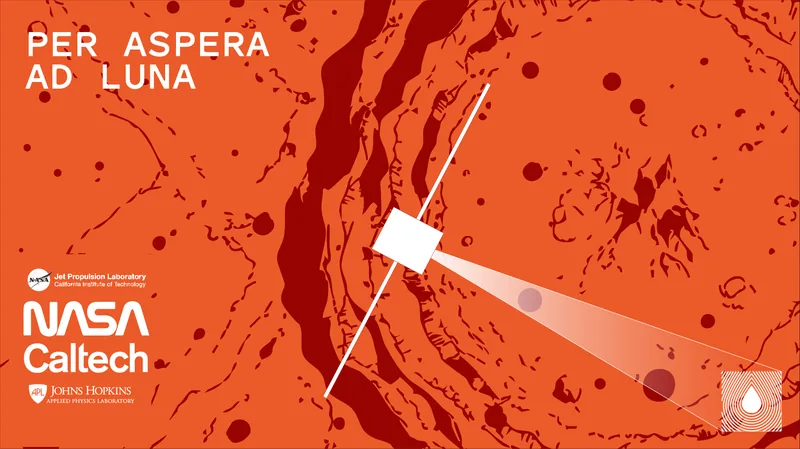
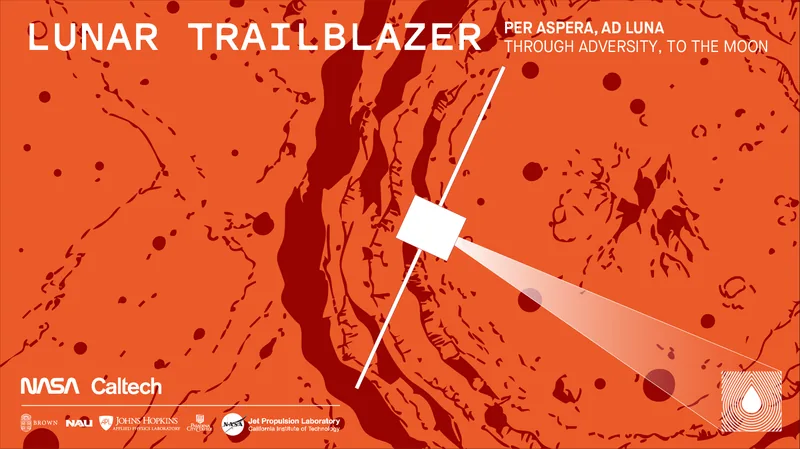
Lunar Trailblazer: replace typography, poster and cross-section with updated versions
Claude-Session: https://claude.ai/code/session_01VguxwzJd8C7LcNFhqFxFZQ

Changed region(s): [[0.0, 0.1559, 0.9062, 0.9978], [0.0312, 0.0312, 0.9688, 0.2183], [0.9062, 0.7795, 0.9688, 0.8107]]

diff --git a/projects/lunar-trailblazer-science/index.html b/projects/lunar-trailblazer-science/index.html
@@ -53,7 +53,7 @@
 
     <section class="cs-carousel" aria-label="Project images">
       <button class="cs-carousel__item" type="button" data-open="gallery" aria-label="Open gallery" style="background-color:#141417"><img src="/assets/images/ltb--typography.webp" alt="Lunar Trailblazer Science: Typography" class="fade-img" onload="this.classList.add('is-loaded')" onerror="this.classList.add('is-loaded')" loading="eager" draggable="false" style="view-transition-name: p-lunar-trailblazer-science"><span class="img-label" aria-hidden="true"><span class="img-label__title">Typography</span></span></button>
-      <button class="cs-carousel__item" type="button" data-open="gallery" aria-label="Open gallery" style="background-color:#141417"><img src="/assets/images/ltb--on-the-hunt.webp" alt="Lunar Trailblazer Science: Where the Water Hides" class="fade-img" onload="this.classList.add('is-loaded')" onerror="this.classList.add('is-loaded')" loading="eager" draggable="false"><span class="img-label" aria-hidden="true"><span class="img-label__title">Where the Water Hides</span></span></button>
+      <button class="cs-carousel__item" type="button" data-open="gallery" aria-label="Open gallery" style="background-color:#141417"><img src="/assets/images/ltb--on-the-hunt.webp" alt="Lunar Trailblazer Science: Water Lurking in the Shadows" class="fade-img" onload="this.classList.add('is-loaded')" onerror="this.classList.add('is-loaded')" loading="eager" draggable="false"><span class="img-label" aria-hidden="true"><span class="img-label__title">Water Lurking in the Shadows</span></span></button>
       <button class="cs-carousel__item" type="button" data-open="gallery" aria-label="Open gallery" style="background-color:#141417"><img src="/assets/images/ltb--poster.webp" alt="Lunar Trailblazer Science: Poster" class="fade-img" onload="this.classList.add('is-loaded')" onerror="this.classList.add('is-loaded')" loading="eager" draggable="false"><span class="img-label" aria-hidden="true"><span class="img-label__title">Poster</span></span></button>
       <button class="cs-explore" type="button" data-open="gallery">
         <span class="cs-explore__stack" aria-hidden="true">
@@ -152,7 +152,7 @@
     <div class="cs-sheet__scroll">
       <div class="cs-gallery">
         <figure class="full" style="background-color:#141417"><img src="/assets/images/ltb--typography.webp" alt="Lunar Trailblazer Science: Typography" class="fade-img" onload="this.classList.add('is-loaded')" onerror="this.classList.add('is-loaded')" loading="lazy"><figcaption class="img-label"><span class="img-label__title">Typography</span></figcaption></figure>
-        <figure style="background-color:#141417"><img src="/assets/images/ltb--on-the-hunt.webp" alt="Lunar Trailblazer Science: Where the Water Hides" class="fade-img" onload="this.classList.add('is-loaded')" onerror="this.classList.add('is-loaded')" loading="lazy"><figcaption class="img-label"><span class="img-label__title">Where the Water Hides</span></figcaption></figure>
+        <figure style="background-color:#141417"><img src="/assets/images/ltb--on-the-hunt.webp" alt="Lunar Trailblazer Science: Water Lurking in the Shadows" class="fade-img" onload="this.classList.add('is-loaded')" onerror="this.classList.add('is-loaded')" loading="lazy"><figcaption class="img-label"><span class="img-label__title">Water Lurking in the Shadows</span></figcaption></figure>
         <figure style="background-color:#141417"><img src="/assets/images/ltb--poster.webp" alt="Lunar Trailblazer Science: Poster" class="fade-img" onload="this.classList.add('is-loaded')" onerror="this.classList.add('is-loaded')" loading="lazy"><figcaption class="img-label"><span class="img-label__title">Poster</span></figcaption></figure>
         <figure class="full" style="background-color:#141417"><img src="/assets/images/ltb--binder.webp" alt="Lunar Trailblazer Science: Binder" class="fade-img" onload="this.classList.add('is-loaded')" onerror="this.classList.add('is-loaded')" loading="lazy"><figcaption class="img-label"><span class="img-label__title">Binder</span></figcaption></figure>
         <figure style="background-color:#141417"><img src="/assets/images/ltb--color-spectra.webp" alt="Lunar Trailblazer Science: Color spectra" class="fade-img" onload="this.classList.add('is-loaded')" onerror="this.classList.add('is-loaded')" loading="lazy"><figcaption class="img-label"><span class="img-label__title">Color spectra</span></figcaption></figure>
